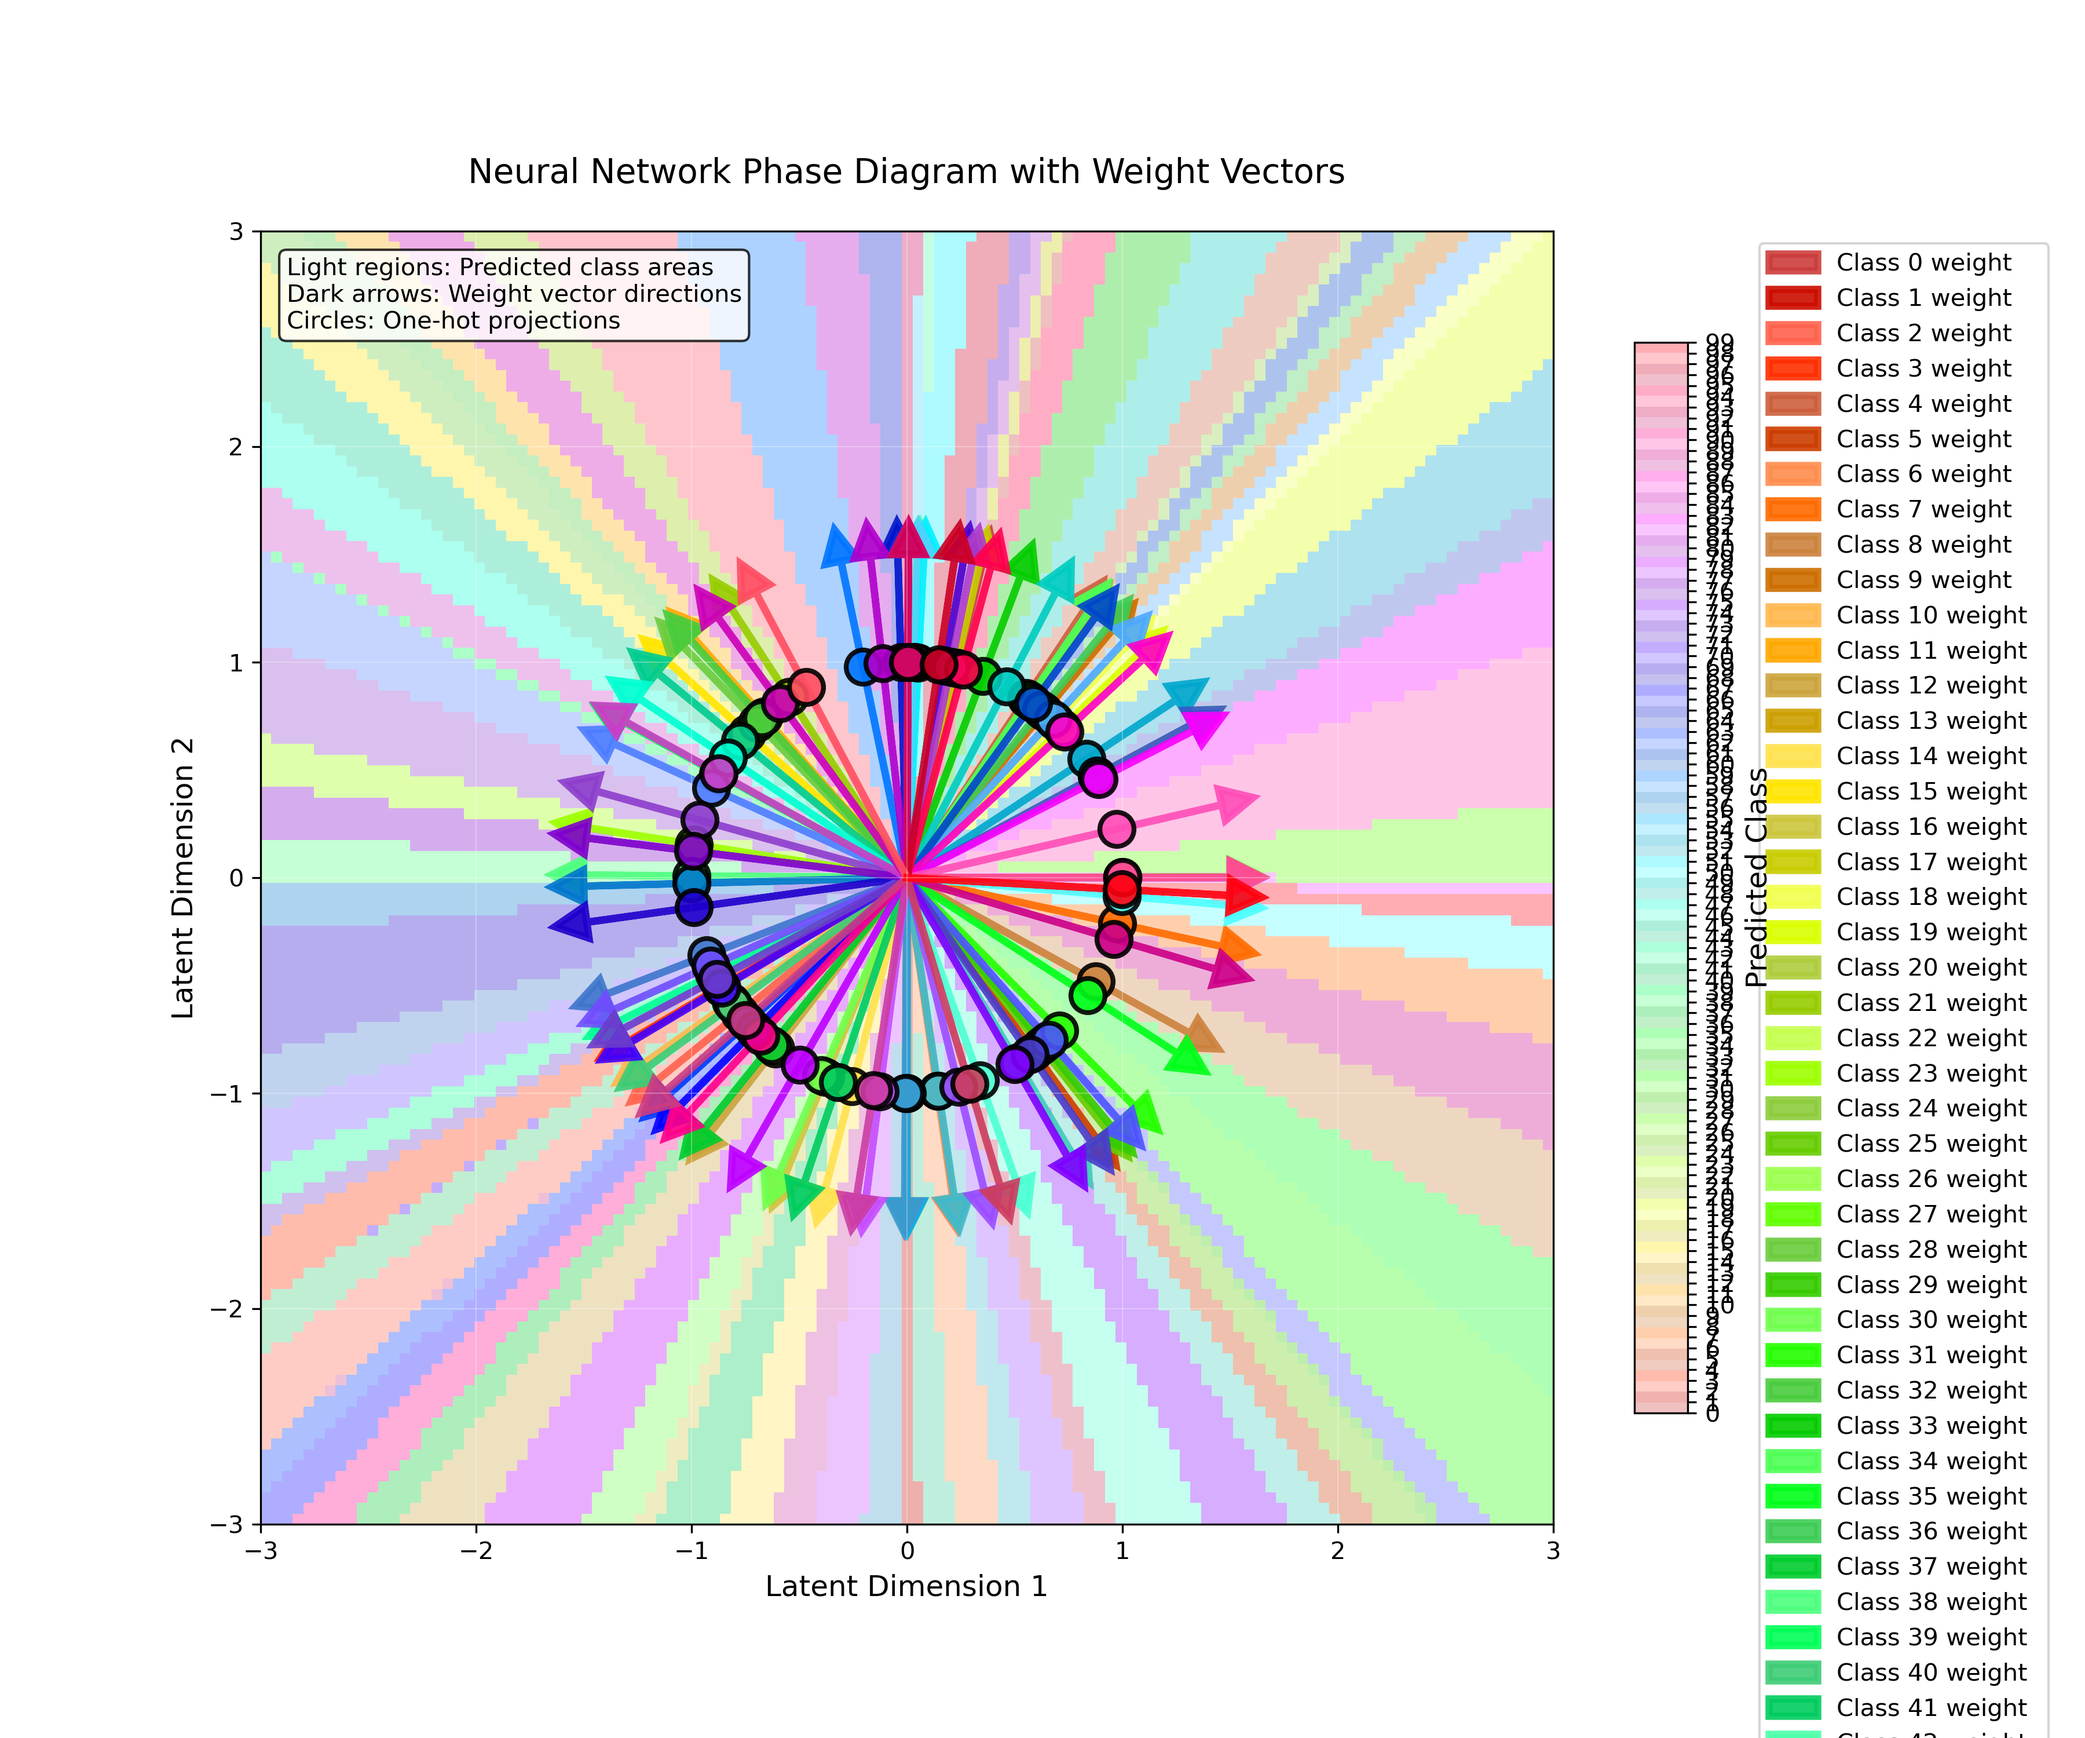
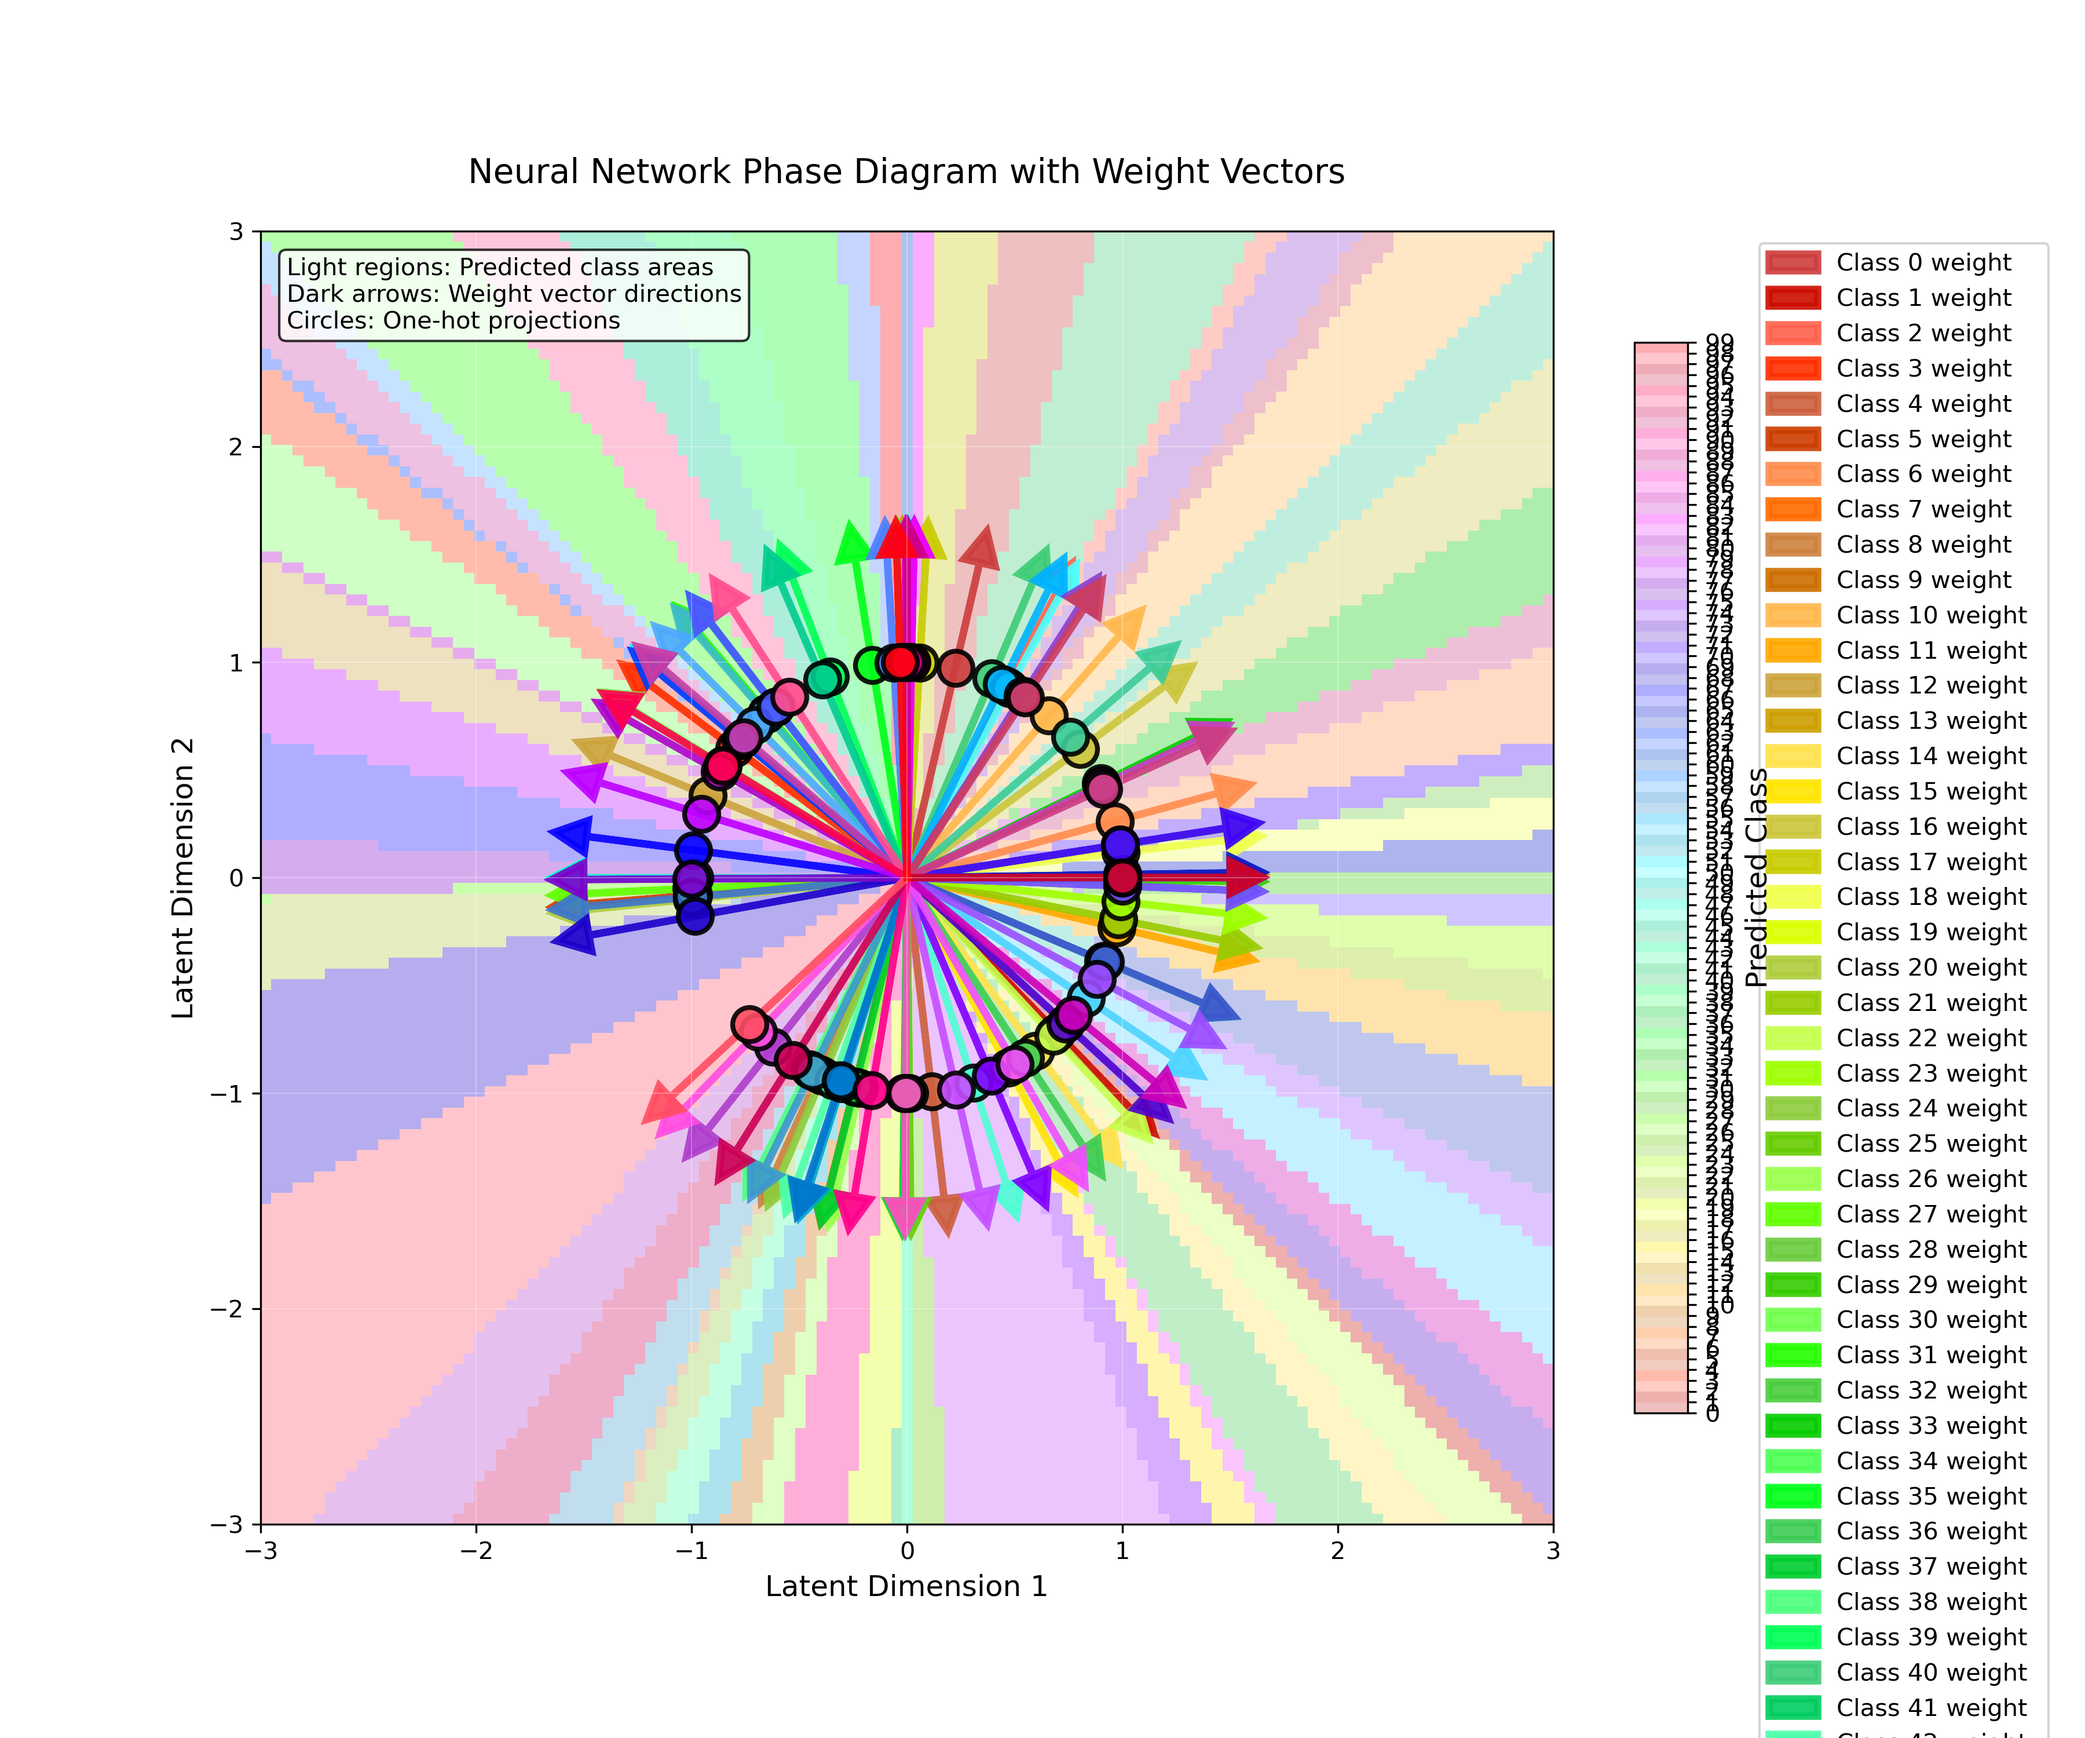
56 features in superposition

diff --git a/train_linear.py b/train_linear.py
@@ -149,6 +149,7 @@ def zephy_loss1(logits, target, input_t):
         masked_logits = logits.clone()
         masked_logits[target] = float('-inf')
         i_neq_t = torch.argmax(masked_logits)
+    # return (logits[target] - input_t)**2 + logits[i_neq_t] * 0.0001
     return (logits[target] - input_t)**2 + logits[i_neq_t] * 0.0001
 
 # def zephy_loss1(logits, target, input_t):
@@ -273,10 +274,10 @@ def train_relu(model, epochs, total_batchs, batch_size, loss_fn, optimizer, impo
 
 if __name__ == "__main__":
 
-    NUM_EPOCHS = 50
+    NUM_EPOCHS = 100
     BATCHS_PER_EPOCH =100
     BATCH_SIZE = 128
-    LEARNING_RATE = 7.5e-3
+    LEARNING_RATE = 5e-3
 
 
     model = ToyModelLinear().to(device)
